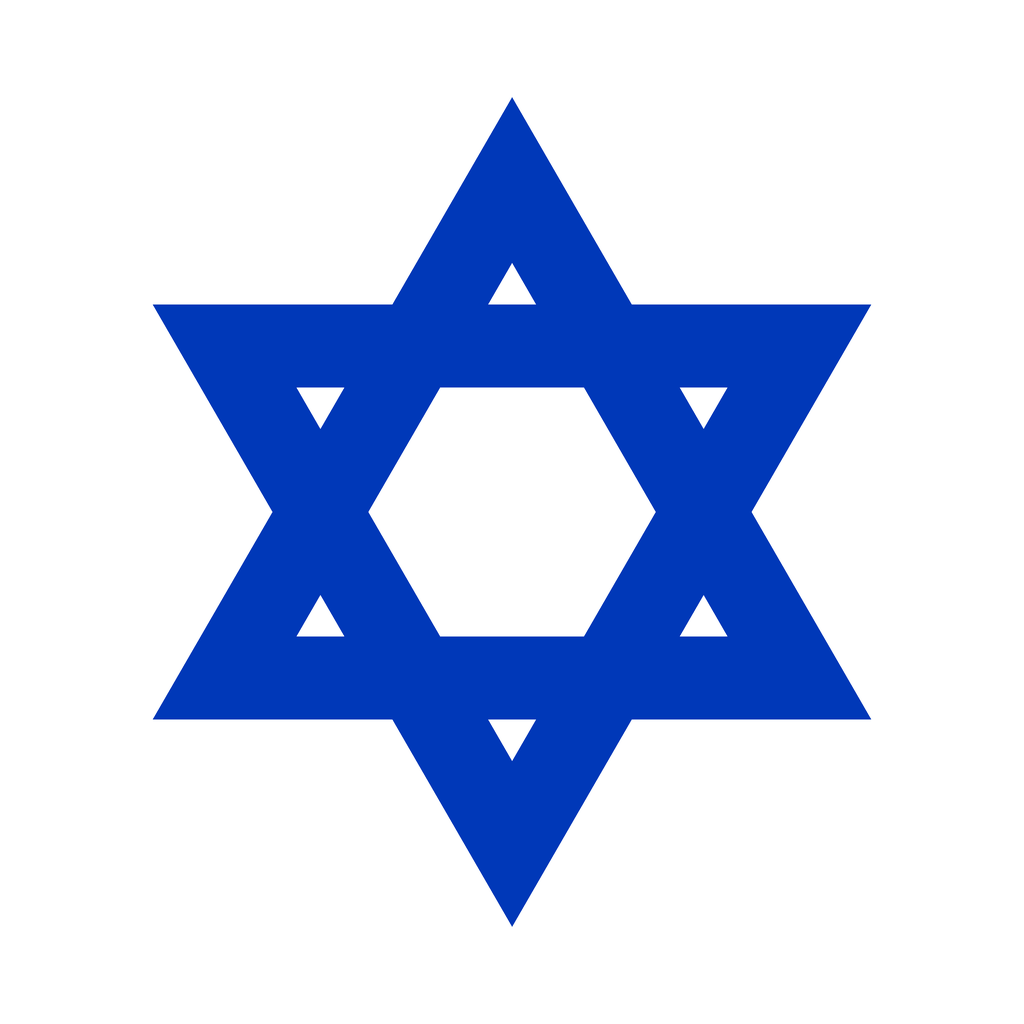
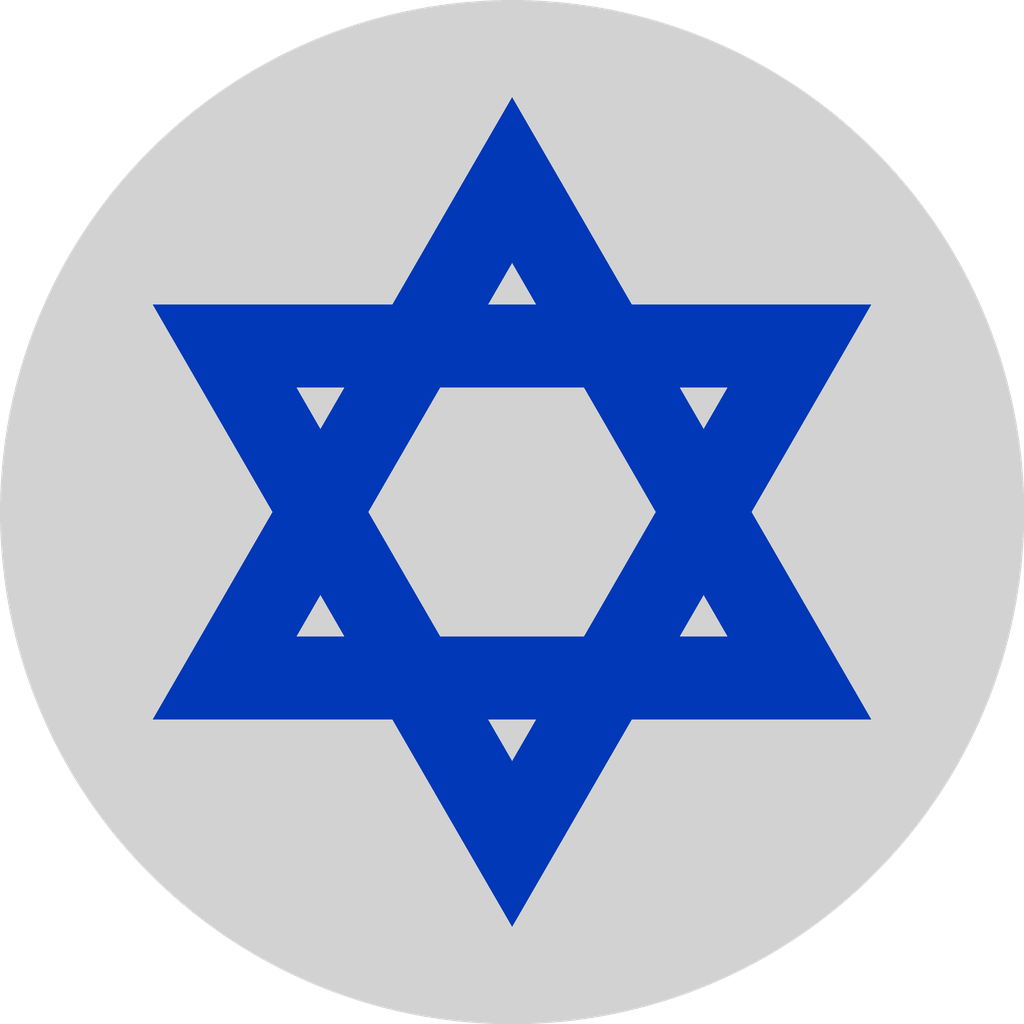
Paint the USAF markings out of the jet's texture
The collected F-16 texture carries US Air Force insignia and South
Carolina unit lettering. tools/gen-jet-paint.py writes copies of its
diffuse and metal-rough maps with those spots filled from the
surrounding skin, and the game loads the copies. The roundel disc is a
paint white now, so it no longer blooms in the sun.

diff --git a/tools/gen-jet-paint.py b/tools/gen-jet-paint.py
@@ -1,0 +1,89 @@
+#!/usr/bin/env python3
+import os
+from PIL import Image, ImageDraw, ImageFilter, ImageStat
+
+ROOT = os.path.dirname(os.path.dirname(os.path.abspath(__file__)))
+DIFFUSE = 'assets/raw/aircraft/f16_rickslash/f16_rickslash_diffuse_0.png'
+OUT = 'assets/generated/f16_paint.png'
+# the metal-rough map bakes the same markings as rough patches, so it is painted out too
+METAL_ROUGH = 'assets/raw/aircraft/f16_rickslash/f16_rickslash_metalRough_1.jpg'
+OUT_METAL_ROUGH = 'assets/generated/f16_paint_metal_rough.png'
+
+# every region is padded past its ink, so the feather blends into clean skin
+RING_MARGIN = 14
+BLUR_RADIUS = 25
+FEATHER_RADIUS = 8
+
+# US-specific markings on the jet's own skin, as (x0, y0, x1, y1) rectangles on the
+# 2048x2048 diffuse texture, found by cropping the texture with Pillow and confirmed on
+# the jet in screenshots; the plain 902 tail number stays, IAF jets carry numbers too
+REGIONS = [
+    # tail fin: the AF 92 serial prefix beside 902, mirrored left and right
+    (930, 995, 1050, 1185),
+    (1370, 995, 1495, 1205),
+    # tail fin: South Carolina lettering, mirrored left and right
+    (1030, 1075, 1180, 1420),
+    (1235, 1075, 1390, 1420),
+    # dorsal panel: Swamp Fox script, mirrored left and right
+    (325, 1575, 440, 1815),
+    (423, 1570, 545, 1815),
+    # star-and-bar insignia, upper wing pair
+    (537, 1592, 687, 1719),
+    (708, 1592, 840, 1719),
+    # star-and-bar insignia, second pair on the fuselage
+    (1585, 1130, 1740, 1257),
+    (1300, 1475, 1420, 1563),
+    # small white stars on the dorsal panel behind the canopy, mirrored left and right
+    (598, 1148, 676, 1210),
+    (718, 1148, 798, 1210),
+]
+
+
+def region_mask(size, offset, box, fill):
+    x0, y0, x1, y1 = box
+    mask = Image.new('L', size, 0 if fill == 255 else 255)
+    ImageDraw.Draw(mask).rectangle((x0 - offset[0], y0 - offset[1], x1 - offset[0] - 1, y1 - offset[1] - 1),
+                                   fill=fill)
+    return mask
+
+
+def paint_region(image, box):
+    x0, y0, x1, y1 = box
+    outer = (max(x0 - RING_MARGIN, 0), max(y0 - RING_MARGIN, 0),
+             min(x1 + RING_MARGIN, image.width), min(y1 + RING_MARGIN, image.height))
+    outer_crop = image.crop(outer)
+
+    ring_mask = region_mask(outer_crop.size, outer[:2], box, fill=0)
+    median = tuple(round(c) for c in ImageStat.Stat(outer_crop, mask=ring_mask).median)
+
+    blurred = outer_crop.filter(ImageFilter.GaussianBlur(BLUR_RADIUS))
+    flat = Image.new('RGB', outer_crop.size, median)
+    patch = Image.blend(flat, blurred, 0.5)
+
+    feather = region_mask(outer_crop.size, outer[:2], box, fill=255).filter(ImageFilter.GaussianBlur(FEATHER_RADIUS))
+    image.paste(patch, outer[:2], feather)
+
+
+def paint(image):
+    for box in REGIONS:
+        paint_region(image, box)
+    return image
+
+
+def main():
+    os.chdir(ROOT)
+    os.makedirs('assets/generated', exist_ok=True)
+
+    source = Image.open(DIFFUSE).convert('RGBA')
+    diffuse = paint(source.convert('RGB'))
+    result = Image.merge('RGBA', (*diffuse.split(), source.getchannel('A')))
+    result.save(OUT)
+    print(f'wrote {OUT} at {result.size[0]}x{result.size[1]}')
+
+    metal_rough = paint(Image.open(METAL_ROUGH).convert('RGB'))
+    metal_rough.save(OUT_METAL_ROUGH)
+    print(f'wrote {OUT_METAL_ROUGH} at {metal_rough.size[0]}x{metal_rough.size[1]}')
+
+
+if __name__ == '__main__':
+    main()

diff --git a/tools/gen-markings.py b/tools/gen-markings.py
@@ -9,6 +9,11 @@ MENORAH = 'assets/generated/menorah.png'
 
 SUPERSAMPLE = 4
 BLUE = (0x00, 0x38, 0xB8)
+# a paint white rather than a pure one: 210 is the brightest flat white measured on the
+# jet's own diffuse texture, so a sunlit disc no longer blooms past the skin around it;
+# the disc is also a flat quad facing the sun more directly than the curved skin, but that
+# is a geometry difference this script cannot reach, so only the paint tone is changed
+DISC_WHITE = (210, 210, 210)
 
 # roundel: white disc, radius 100, with an outline Star of David like the flag of Israel
 ROUNDEL_SIZE = 1024
@@ -49,9 +54,9 @@ def draw_roundel():
     down = triangle_band(size, cx, cy, 90, outer_r, inner_r)
     star = ImageChops.lighter(up, down)
 
-    # white under the star and the disc's own edge, so downsampling never blends in black
-    image = Image.new('RGBA', size, (255, 255, 255, 0))
-    image.paste((255, 255, 255, 255), mask=disc)
+    # DISC_WHITE under the star and the disc's own edge, so downsampling never blends in black
+    image = Image.new('RGBA', size, DISC_WHITE + (0,))
+    image.paste(DISC_WHITE + (255,), mask=disc)
     image.paste(BLUE + (255,), mask=star)
     return image.resize((ROUNDEL_SIZE, ROUNDEL_SIZE), Image.LANCZOS)
 

diff --git a/src/game/world.c b/src/game/world.c
@@ -27,6 +27,8 @@
 #define RUNWAY_TEXTURE "raw/textures/runway_asphalt_clean_asphalt/clean_asphalt"
 #define ROUNDEL_TEXTURE "generated/roundel"
 #define MENORAH_TEXTURE "generated/menorah"
+#define JET_PAINT_TEXTURE "generated/f16_paint"
+#define JET_PAINT_METAL_ROUGH_TEXTURE "generated/f16_paint_metal_rough"
 
 #define APRON_SIZE 200.0f
 #define APRON_TILE 1.8f
@@ -688,6 +690,13 @@ static int load_jet(World *world, Scene *scene)
     }
     // same metalness scale as the store missiles
     materials[0].metallic *= 0.4f;
+    // the collected texture carries USAF markings; the generated copies paint them out of both maps
+    materials[0].diffuse_map = named_texture(JET_PAINT_TEXTURE, ".png", TEXTURE_COLOR);
+    materials[0].metal_rough_map = named_texture(JET_PAINT_METAL_ROUGH_TEXTURE, ".png", TEXTURE_DATA);
+    if (materials[0].diffuse_map == 0 || materials[0].metal_rough_map == 0) {
+        obj_free(&model);
+        return -1;
+    }
     // world_park puts it on its spot once everything that rides on it exists
     world->jet = place(scene, mesh, materials, v3(0.0f, 0.0f, 0.0f), WORLD_PARK_HEADING, JET_SCALE);
     if (world->jet == NULL) {
